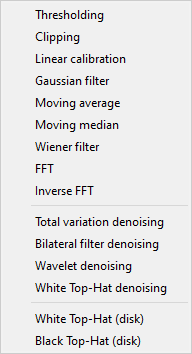
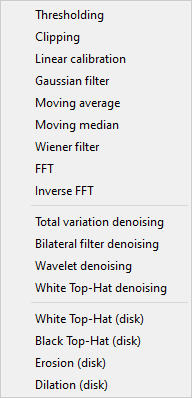
Added erosion/dilation morphological transforms

Changed region(s): [[0.1562, 0.5282, 0.875, 0.9944], [0.1562, 0.0, 0.6562, 0.435], [0.1875, 0.4661, 0.5, 0.4972]]

diff --git a/codraft/core/gui/processor/image.py b/codraft/core/gui/processor/image.py
@@ -224,7 +224,7 @@ class DenoiseWaveletParam(DataSet):
     )
 
 
-class TopHatParam(DataSet):
+class MorphologyParam(DataSet):
     """White Top-Hat parameters"""
 
     radius = IntItem(_("Radius"), default=1, min=1, help=_("Footprint (disk) radius."))
@@ -668,11 +668,11 @@ class ImageProcessor(BaseProcessor):
         )
 
     @qt_try_except()
-    def compute_denoise_tophat(self, param: TopHatParam = None) -> None:
+    def compute_denoise_tophat(self, param: MorphologyParam = None) -> None:
         """Denoise using White Top-Hat"""
         edit = param is None
         if edit:
-            param = TopHatParam(_("Denoise / Top-Hat"))
+            param = MorphologyParam(_("Denoise / Top-Hat"))
 
         self.compute_11(
             "DenoiseWhiteTopHat",
@@ -683,11 +683,11 @@ class ImageProcessor(BaseProcessor):
         )
 
     @qt_try_except()
-    def compute_white_tophat(self, param: TopHatParam = None) -> None:
+    def compute_white_tophat(self, param: MorphologyParam = None) -> None:
         """Compute White Top-Hat"""
         edit = param is None
         if edit:
-            param = TopHatParam(_("White Top-Hat"))
+            param = MorphologyParam(_("White Top-Hat"))
 
         self.compute_11(
             "WhiteTopHatDisk",
@@ -698,15 +698,45 @@ class ImageProcessor(BaseProcessor):
         )
 
     @qt_try_except()
-    def compute_black_tophat(self, param: TopHatParam = None) -> None:
+    def compute_black_tophat(self, param: MorphologyParam = None) -> None:
         """Compute Black Top-Hat"""
         edit = param is None
         if edit:
-            param = TopHatParam(_("Black Top-Hat"))
+            param = MorphologyParam(_("Black Top-Hat"))
 
         self.compute_11(
             "BlackTopHatDisk",
             lambda x, p: morphology.black_tophat(x, morphology.disk(p.radius)),
+            param,
+            suffix=lambda p: f"radius={p.radius}",
+            edit=edit,
+        )
+
+    @qt_try_except()
+    def compute_erosion(self, param: MorphologyParam = None) -> None:
+        """Compute Erosion"""
+        edit = param is None
+        if edit:
+            param = MorphologyParam(_("Erosion"))
+
+        self.compute_11(
+            "ErosionDisk",
+            lambda x, p: morphology.erosion(x, morphology.disk(p.radius)),
+            param,
+            suffix=lambda p: f"radius={p.radius}",
+            edit=edit,
+        )
+
+    @qt_try_except()
+    def compute_dilation(self, param: MorphologyParam = None) -> None:
+        """Compute Dilation"""
+        edit = param is None
+        if edit:
+            param = MorphologyParam(_("Dilation"))
+
+        self.compute_11(
+            "DilationDisk",
+            lambda x, p: morphology.dilation(x, morphology.disk(p.radius)),
             param,
             suffix=lambda p: f"radius={p.radius}",
             edit=edit,

diff --git a/codraft/tests/scenario_ima_app.py b/codraft/tests/scenario_ima_app.py
@@ -22,10 +22,10 @@ from codraft.core.gui.processor.image import (
     DenoiseTVParam,
     DenoiseWaveletParam,
     LogP1Param,
+    MorphologyParam,
     PeakDetectionParam,
     ResizeParam,
     RotateParam,
-    TopHatParam,
     ZCalibrateParam,
 )
 from codraft.core.model.base import UniformRandomParam
@@ -75,10 +75,12 @@ def test_image_features(win: CodraFTMainWindow, data_size: int = 150) -> None:
     param = DenoiseWaveletParam()
     panel.processor.compute_denoise_wavelet(param)
 
-    param = TopHatParam()
+    param = MorphologyParam()
     panel.processor.compute_denoise_tophat(param)
     panel.processor.compute_white_tophat(param)
     panel.processor.compute_black_tophat(param)
+    panel.processor.compute_erosion(param)
+    panel.processor.compute_dilation(param)
 
     param = LogP1Param()
     param.n = 1

diff --git a/codraft/core/gui/actionhandler.py b/codraft/core/gui/actionhandler.py
@@ -477,7 +477,9 @@ class ImageActionHandler(BaseActionHandler):
         ]
         whitetophat_act = self.cra(_("White Top-Hat (disk)"), proc.compute_white_tophat)
         blacktophat_act = self.cra(_("Black Top-Hat (disk)"), proc.compute_black_tophat)
-        morph_actions = [whitetophat_act, blacktophat_act]
+        erosion_act = self.cra(_("Erosion (disk)"), proc.compute_erosion)
+        dilation_act = self.cra(_("Dilation (disk)"), proc.compute_dilation)
+        morph_actions = [whitetophat_act, blacktophat_act, erosion_act, dilation_act]
         self.actlist_1more += denoise_actions + morph_actions
         return base_actions + [None] + denoise_actions + [None] + morph_actions
 

diff --git a/doc/features/image/menu/processing.rst b/doc/features/image/menu/processing.rst
@@ -64,3 +64,11 @@ White Top-Hat (disk)
 Black Top-Hat (disk)
     Perform black top hat transform of an image, using a disk footprint
     (implementation based on `skimage.morphology.black_tophat <https://scikit-image.org/docs/stable/api/skimage.morphology.html#skimage.morphology.black_tophat>`_)
+
+Erosion (disk)
+    Perform morphological erosion on an image, using a disk footprint
+    (implementation based on `skimage.morphology.erosion <https://scikit-image.org/docs/stable/api/skimage.morphology.html#skimage.morphology.erosion>`_)
+
+Dilation (disk)
+    Perform morphological dilation on an image, using a disk footprint
+    (implementation based on `skimage.morphology.dilation <https://scikit-image.org/docs/stable/api/skimage.morphology.html#skimage.morphology.dilation>`_)

diff --git a/CHANGELOG.md b/CHANGELOG.md
@@ -13,8 +13,11 @@ New features:
   * Added Bilateral filter (denoising)
   * Added Wavelet denoising filter
   * Added white Top-Hat denoising filter
-  * Added white Top-Hat transform (disk footprint)
-  * Added black Top-Hat transform (disk footprint)
+  * Added morphological transforms (disk footprint):
+    * White Top-Hat
+    * Black Top-Hat
+    * Erosion
+    * Dilation
 * Added support for XYZ image files
 
 Bug fixes:
